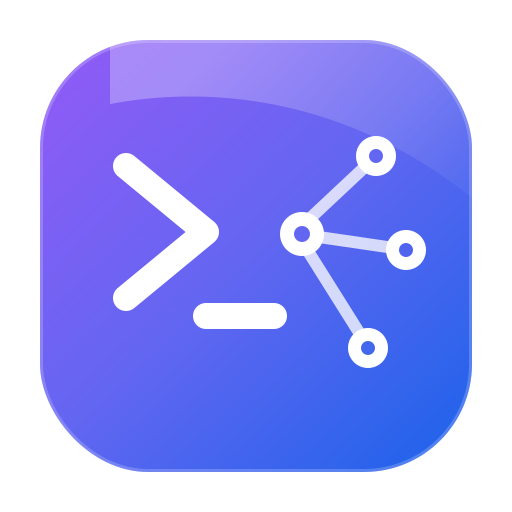
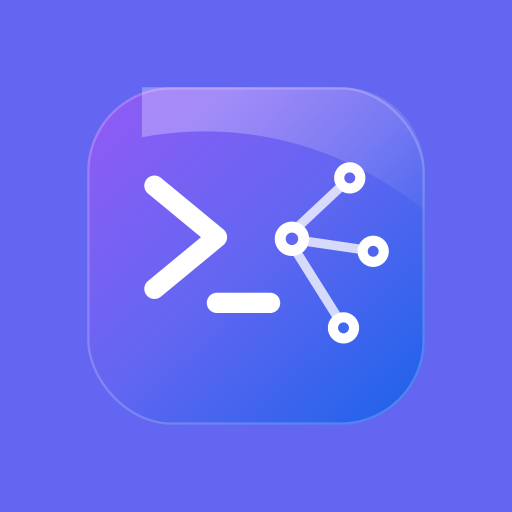
Brand the installable WebUI as local-shell-mcp

diff --git a/ui/workspace/client/vite.config.ts b/ui/workspace/client/vite.config.ts
@@ -151,11 +151,15 @@ export default defineConfig(({ command }) => ({
       },
       includeAssets: [],
       manifest: {
-        name: 'LibreChat',
-        short_name: 'LibreChat',
+        id: '/',
+        name: 'local-shell-mcp',
+        short_name: 'LSM',
+        description: 'Chat and remote control workspace',
+        start_url: '/',
+        scope: '/',
         display: 'standalone',
-        background_color: '#000000',
-        theme_color: '#009688',
+        background_color: '#171717',
+        theme_color: '#171717',
         icons: [
           {
             src: 'assets/favicon-32x32.png',
@@ -175,6 +179,11 @@ export default defineConfig(({ command }) => ({
           {
             src: 'assets/icon-192x192.png',
             sizes: '192x192',
+            type: 'image/png',
+          },
+          {
+            src: 'assets/icon-512x512.png',
+            sizes: '512x512',
             type: 'image/png',
           },
           {

diff --git a/ui/workspace/client/index.html b/ui/workspace/client/index.html
@@ -6,6 +6,7 @@
     <meta name="theme-color" content="#171717" />
     <meta name="mobile-web-app-capable" content="yes" />
     <meta name="apple-mobile-web-app-capable" content="yes" />
+    <meta name="apple-mobile-web-app-title" content="LSM" />
     <meta name="apple-mobile-web-app-status-bar-style" content="black-translucent" />
     <meta
       name="description"

diff --git a/tests/test_webui_frontend.py b/tests/test_webui_frontend.py
@@ -1,5 +1,7 @@
 """Python serves the original React UI without a resident Node.js process."""
 
+from pathlib import Path
+
 import httpx
 import pytest
 from starlette.applications import Starlette
@@ -91,3 +93,60 @@ async def test_oauth_result_pages_render_publicly_without_login(tmp_path, monkey
             assert (await client.get("/c/new")).status_code == 303
     finally:
         get_settings.cache_clear()
+
+
+@pytest.mark.asyncio
+async def test_pwa_assets_are_public_without_login(tmp_path, monkeypatch):
+    from local_shell_mcp.settings import get_settings
+
+    bundle = tmp_path / "bundle"
+    assets = bundle / "assets"
+    assets.mkdir(parents=True)
+    (bundle / "index.html").write_text("<title>LSM</title>")
+    (bundle / "manifest.webmanifest").write_text('{"name": "local-shell-mcp"}')
+    for script in ("sw.js", "sw-heal.js", "registerSW.js"):
+        (bundle / script).write_text("// service worker")
+    source = Path(__file__).parents[1] / "ui/workspace/client/public/assets"
+    for icon in ("icon-192x192.png", "icon-512x512.png", "maskable-icon.png"):
+        (assets / icon).write_bytes((source / icon).read_bytes())
+    monkeypatch.setattr(frontend, "bundled_frontend", lambda: bundle)
+    monkeypatch.setenv("LOCAL_SHELL_MCP_AUTH_MODE", "oauth")
+    get_settings.cache_clear()
+    app = Starlette(routes=frontend.frontend_routes())
+    async with httpx.AsyncClient(transport=httpx.ASGITransport(app=app), base_url="https://chat.example.org") as client:
+        assert (await client.get("/")).status_code == 303
+        for method in ("GET", "HEAD"):
+            response = await client.request(method, "/manifest.webmanifest")
+            assert response.status_code == 200
+            assert response.headers["content-type"] == "application/manifest+json"
+            assert response.headers["cache-control"] == "no-cache"
+        for script in ("sw.js", "sw-heal.js", "registerSW.js"):
+            response = await client.get("/" + script)
+            assert response.status_code == 200
+            assert response.headers["cache-control"] == "no-cache"
+        for icon in ("icon-192x192.png", "icon-512x512.png", "maskable-icon.png"):
+            response = await client.get("/assets/" + icon)
+            assert response.status_code == 200
+            assert response.headers["content-type"] == "image/png"
+            assert response.content == (source / icon).read_bytes()
+        assert (await client.get("/assets/missing-pwa-icon.png")).status_code == 404
+        assert (await client.post("/manifest.webmanifest")).status_code == 404
+
+
+def test_pwa_icon_dimensions():
+    from PIL import Image
+
+    assets = Path(__file__).parents[1] / "ui/workspace/client/public/assets"
+    for name, size in (
+        ("favicon-16x16.png", 16),
+        ("favicon-32x32.png", 32),
+        ("apple-touch-icon-180x180.png", 180),
+        ("icon-192x192.png", 192),
+        ("icon-512x512.png", 512),
+        ("maskable-icon.png", 512),
+    ):
+        with Image.open(assets / name) as image:
+            assert image.format == "PNG"
+            assert image.size == (size, size)
+            if name == "maskable-icon.png":
+                assert image.convert("RGBA").getchannel("A").getextrema() == (255, 255)

diff --git a/tests/test_webui_assets_archive.py b/tests/test_webui_assets_archive.py
@@ -4,6 +4,7 @@ from __future__ import annotations
 
 import gzip
 import hashlib
+import json
 import importlib.util
 import io
 import tarfile
@@ -77,3 +78,23 @@ def test_source_frontend_resolves_first_party_workspace() -> None:
     if not (root / "client" / "dist" / "index.html").is_file():
         pytest.skip("React UI not built in this source checkout")
     assert frontend.bundled_frontend() == root / "client" / "dist"
+
+
+def test_built_pwa_manifest_and_icons() -> None:
+    from PIL import Image
+
+    dist = Path(__file__).resolve().parents[1] / "ui/workspace/client/dist"
+    if not (dist / "index.html").is_file():
+        pytest.skip("React UI not built in this source checkout")
+    assert 'rel="manifest"' in (dist / "index.html").read_text()
+    manifest = json.loads((dist / "manifest.webmanifest").read_text())
+    assert manifest["name"] == "local-shell-mcp"
+    assert manifest["short_name"] == "LSM"
+    assert manifest["id"] == manifest["scope"] == manifest["start_url"] == "/"
+    assert manifest["display"] == "standalone"
+    sizes = set()
+    for icon in manifest["icons"]:
+        with Image.open(dist / icon["src"]) as image:
+            assert icon["sizes"] == f"{image.width}x{image.height}"
+            sizes.add((icon["sizes"], icon.get("purpose", "any")))
+    assert {("192x192", "any"), ("512x512", "any"), ("512x512", "maskable")} <= sizes

diff --git a/src/local_shell_mcp/webui/frontend.py b/src/local_shell_mcp/webui/frontend.py
@@ -132,9 +132,14 @@ async def frontend(request: Request) -> Response:
         if not is_spa_path("/" + relative):
             return Response(status_code=404)
         path = root / "index.html"
-    cache = "no-store" if path.name == "index.html" else ("no-cache" if relative.startswith("monaco/") else "public, max-age=3600")
-    headers = {"Cache-Control": cache}
-    return FileResponse(path, headers=headers)
+    if path.name == "index.html":
+        cache = "no-store"
+    elif relative.startswith("monaco/") or relative in {"manifest.webmanifest", "sw.js", "sw-heal.js", "registerSW.js"}:
+        cache = "no-cache"
+    else:
+        cache = "public, max-age=3600"
+    media_type = "application/manifest+json" if path.suffix == ".webmanifest" else None
+    return FileResponse(path, headers={"Cache-Control": cache}, media_type=media_type)
 
 
 class FrontendRoute(Route):

diff --git a/README.md b/README.md
@@ -96,6 +96,8 @@ http://127.0.0.1:8765/ui
 
 When OpenTUI is installed, the OAuth screen lets you choose Web UI or OpenTUI before authorization, and the interface selector can switch modes after login. Native Web UI routes use URL hashes such as `#/overview` and `#/console`, so a selected mode or page can be bookmarked. The OpenTUI console retains the existing authenticated xterm.js/PTY transport, mouse interaction, automatic resizing, reconnects, fullscreen mode, and mobile shortcut row.
 
+The integrated React workspace can also be installed as a Progressive Web App (PWA). Open the Controller's HTTPS origin (or localhost), sign in, and use your browser's **Install app** command (Chrome/Edge) or **Add to Home Screen** (Safari on iOS). LSM then launches in a standalone window; the Controller and its normal authentication are still required.
+
 Standalone release executables and Docker images include the WebUI and native terminal but **do not bundle OpenTUI**. Their TUI controls are hidden unless a separately installed runtime is available. The Python wheel and source-development build retain optional OpenTUI support. To enable it, install an appropriate sidecar, set `LOCAL_SHELL_MCP_UI_TUI_COMMAND=/path/to/local-shell-mcp-tui`, and launch:
 
 ```bash
